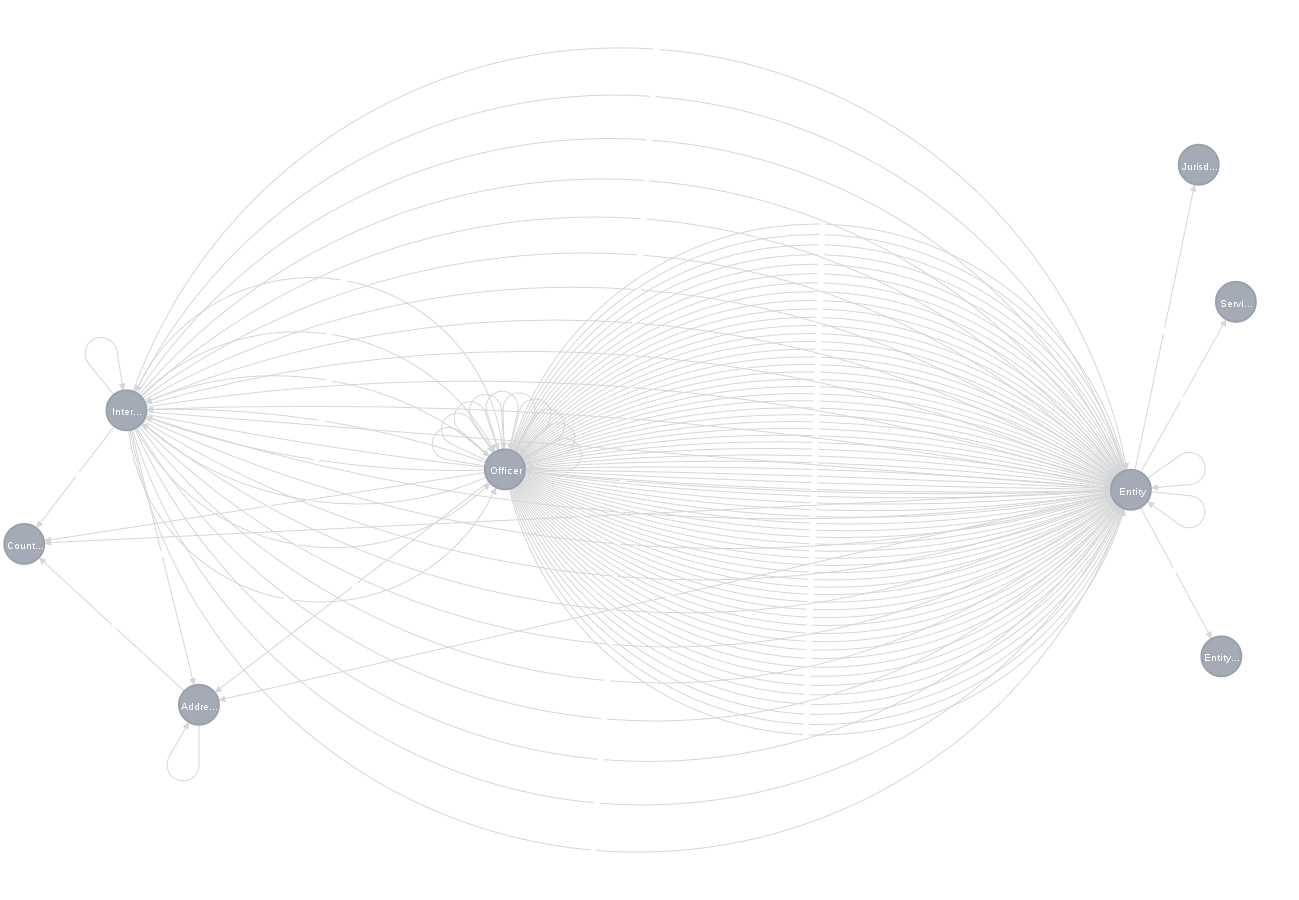
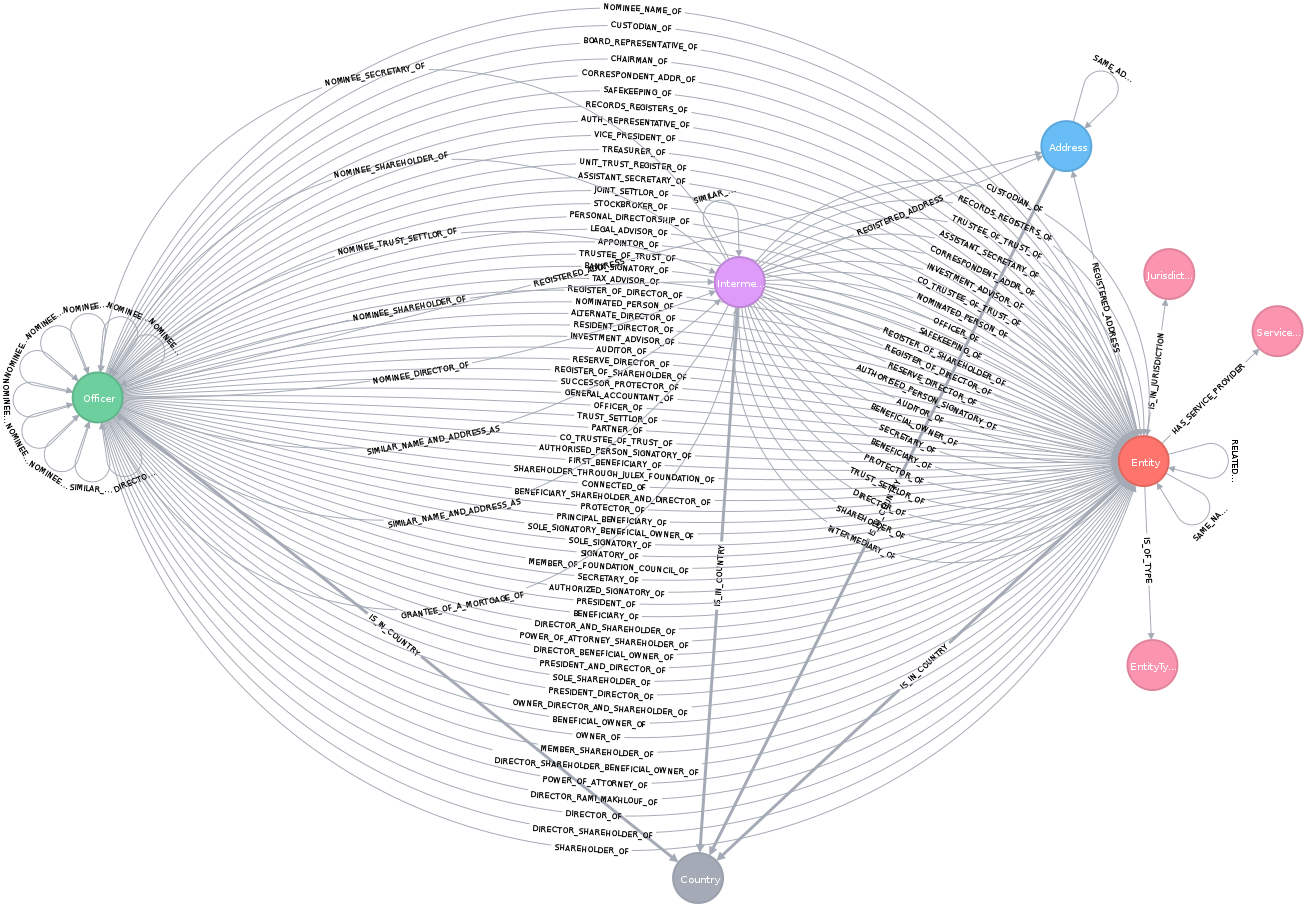
README: finish import part

diff --git a/panama_papers/README.md b/panama_papers/README.md
@@ -119,57 +119,345 @@ Now, we are all set. Let's import the data!
 First, I wanted to import the data via `LOAD CSV` as the files are all csv.
 It seems there is a problem with all_edges.csv: it isn't possible to dynamically create relationship type. A solution can be to use a `CASE` or even a `FOREACH` to force the relationship type. So, let's have a look on the different relationship in this file. Whoops, there is 121 kind of relationship.
 Well, it seems that `LOAD CSV` is not a good idea...  
-In fact, I imported all other files before seeing this problem. For information, I have to tweak the Java heap size and th queries to import in almost satisyfing 20 minutes. Believe me, I was proud of this 20 minutes. But let's move on to the other solution: `neo4j-import`  
+In fact, I imported all other files before seeing this problem. For information, I have to tweak the Java heap size and the queries (split, etc.) to perform import in almost satisyfing 20 minutes. Believe me, I was proud of these 20 minutes. But let's move on to the other solution: `neo4j-import`  
 
 What is `neo4j-import`?  
 The doc about this tool is [here](http://neo4j.com/docs/stable/import-tool.html)  
-It's a tool to import data from CSV files into a blank database. Yep, a blank database and only a blak database, it will send a nerror if you try to use it on a non-empty database. Data sources are separated between nodes and relationships, each stored in CSV files. It is possible to specify a column to use as an Id and format other columns in a particular type if you want. In case of large file, you can have separated file for headers and data, which avoid to edit a large file only to change headers.  
-It's a very quick introduction, I encourage you to read the [doc](http://neo4j.com/docs/stable/import-tool.html).  
+It's a tool to import data from CSV files into a blank database. Yep, a blank database and only a blak database, it will send an error if you try to use it on a non-empty database. Data sources are separated between nodes and relationships, each stored in CSV files. It is possible to specify a column to use as an Id and format other columns in a particular type if you want. In case of large file, you can have separated file for headers and data, which avoid to edit a large file only to change headers.  
+It's a very quick introduction, I encourage you to read the [documentation](http://neo4j.com/docs/stable/import-tool.html) which is not that long.      
 
 Knwowing how `neo4j-import` works, how can we import our data?
 There are few things we ha to keep in mind about the data:
 - There are duplicates between Officers and Intermediaries
-- all_edges.rel_type is not suitable for database as they have special characters and spaces
-Additionnally,extracting countries, jurisdictions, entity types and service providers to create nodes seems to be a good idea.
+- all_edges.rel_type is not suitable for database as they have special characters and spaces.  
+Additionnally,extracting countries, jurisdictions, entity types and service providers to create nodes seems to be a good idea.  
 Apart from the ICIJ-defined relationships (stored in all_edges.csv), we want the following meta graph:
 
 
 For data cleaning in file creating, I made a python script (my first python script, feel free to improve it and to help becoming better) which yau can call like this:  
-`python convert_data_for_import.py sourceDirectory targetDirectory`
-with *sourceDirectory* the original files directory and *targetDirectory*, the directory where new files will be saved.
+`python convert_data_for_import.py sourceDirectory targetDirectory`  
+with *sourceDirectory* the original files directory and *targetDirectory*, the directory where new files will be saved.  
+
+For convenience, the source from which data are retrieved will be noted as source_file.source_field. For example, an information stored in the field 'address' in the file Addresses.csv will be noted: Addresses.address.  
+In file where *coutnry_codes* and *country_names* fields are present, there can be more than one country per line, separated by semi colon. The script split them in single country elements. 
+
 It creates the following files:  
-Addresses_headers.csv
-Addresses.csv
-additional_relationships_country_address_headers.csv
-additional_relationships_country_address.csv
-all_edges_headers.csv
-all_edges.csv
-Countries_headers.csv
-Countries.csv
-Entities_headers.csv
-Entities.csv
-EntityTypes_headers.csv
-EntityTypes.csv
-Jurisdictions_headers.csv
-Jurisdictions.csv
-ServiceProviders_headers.csv
-ServiceProviders.csv
-additional_relationships_entity_jurisdiction_headers.csv
-additional_relationships_entity_jurisdiction.csv
-additional_relationships_entity_headers.csv
-additional_relationships_entity.csv
-additional_relationships_country_entity_headers.csv
-additional_relationships_country_entity.csv
-Intermediaries_headers.csv
-Intermediaries.csv
-additional_relationships_country_intermediary_headers.csv
-additional_relationships_country_intermediary.csv
-Officers_headers.csv
-Officers.csv
-additional_relationships_country_officer_headers.csv
-additional_relationships_country_officer.csv
-duplicateIds.csv
-  
+###### Addresses_headers.csv
+Contains the header for the **Address** nodes file
+Contains only one line:  
+`uid:ID,description`  
+The syntax `:ID` tells the import tool that data to use data in this colum as identifiers. It will use this identifiers when it comes to create relationships
+
+###### Addresses.csv
+Contains the **Address** nodes information
+
+field | source | description
+---|---|---
+uid | Address.node_id | the node's unique identifier
+description | Address.address | the address
+
+###### additional_relationships_country_address_headers.csv
+Contains the headers for the relationships file between **Address** nodes and **Country** nodes.  
+Contains only one line:
+`:START_ID,:END_ID,:TYPE`  
+These are all keywords:
+- `:START_ID` indicates a start node identifier, here an **Address** one. The import will look after the `:ID` set before to find the correct node  
+- `:END_ID` indicates a target node identifier, here an **Country** one. The import will look after the `:ID` set before to find the correct node
+- `:TYPE` is for the type of relationship to create
+
+###### additional_relationships_country_address.csv
+Contains the relationships between **Address** nodes and **Country** ones.  
+
+field | source | description
+---|---|---
+:START_ID | Addresses.node_id | An **Address** node's unique identifier
+:END_ID | Addresses.country_codes | A country code (which acts as an identifier)
+:TYPE | - | The relationship's type. Here: *IS_IN_COUNTRY*  
+
+###### all_edges_headers.csv
+Contains the headers for the ICIJ-defined relationships.  
+Contains only one line:
+`:START_ID,:END_ID,:TYPE`  
+These are all keywords:
+- `:START_ID` indicates a start node identifier. The import will look after the `:ID` set before to find the correct node  
+- `:END_ID` indicates a target node identifier. The import will look after the `:ID` set before to find the correct node
+- `:TYPE` is for the type of relationship to create
+
+###### all_edges.csv
+Contains all the headers for the ICIJ-defined relationships.  
+These relationship are too numerous (121!) to be listed here. Eventually, you can use `CALL db.relationships()` to get all different kind of relationships. You can also see them in the browser's first tab.  
+
+field | source | description
+---|---|---
+:START_ID | Addresses.node_id | A node's unique identifier
+:END_ID | Addresses.country_codes | A node's unique identifier
+:TYPE | - | The relationship's type
+
+
+###### Countries_headers.csv
+Contains the headers for the **Country** nodes.  
+Contains only on line:  
+`code:ID,name`
+
+###### Countries.csv
+Contains the **Country** nodes information.  
+This information come from different files. 
+
+field | source | description
+---|---|---
+code | Addresses.country_codes, Entities.country_codes, Officers.country_codes, Intermediaries.country_codes | the 3 letter country code. Will be use as identifier
+name | Addresses.country_names, Entities.country_names, Officers.country_names, Intermediaries.country_names | The country name
+
+###### Entities_headers.csv
+Contains the headers for the **Entity** nodes.  
+Contains only on line:  
+`uid:ID,name,originalName,formerName,address,status,note,incorporationDate,dormancydate,inactivationDate,struckOffDate`
+
+###### Entities.csv
+Contains the **Entity** nodes information. 
+
+field | source | description
+---|---|---
+uid | Entities.node_id | The **Entity** node unique identifier
+name | Entities.name | The **Entity** name
+originalName | Entities.original_name | The **Entity** original name
+formerName | Entities.former_name | The **Entity** former name
+address | Entities.address | The **Entity** address
+status | Entities.status | The **Entity** status
+note | Entities.note | Note about the **Entity** 
+incorporationDate | Entities.incorporation_date | The **Entity** incorporation date
+dormancydate | Entities.dorm_date | The **Entity** dormancy date
+inactivationDate | Entities.inactivation_date | The **Entity** inactivation date
+struckOffDate | Entities.struck_off_date | The **Entity** struck off date
+
+###### EntityTypes_headers.csv
+Contains the headers for the **EntityType** nodes.  
+Contains only on line:  
+`uid:ID,name`
+
+###### EntityTypes.csv
+Contains the **EntityType** nodes information. 
+
+field | source | description
+---|---|---
+uid | - | The **EntityType** node unique identifier. Computed from each word first letter and type length
+name | Entities.company_type | The **EntityType** description
+
+###### Jurisdictions_headers.csv
+Contains the headers for the **Jurisdiction** nodes.  
+Contains only on line:  
+`code:ID,name`
+
+###### Jurisdictions.csv
+Contains the **Jurisdiction** nodes information. 
+Not to be confused with countries!  
+
+field | source | description
+---|---|---
+uid | Entities.juridiction + Entities.jurisdiction length | The **Jurisdiction** node unique identifier.
+name | Entities.jurisdiction | The **Jurisdiction** description
+
+###### ServiceProviders_headers.csv
+Contains the headers for the **ServiceProvider** nodes.  
+Contains only on line:  
+`uid:ID,name`
+
+###### ServiceProviders.csv
+Contains the **ServiceProvider** nodes information. 
+
+field | source | description
+---|---|---
+uid | - | The **ServiceProvider** node unique identifier. Computed from each word first letter
+name | Entities.service_provider | The **ServiceProvider** name 
+
+###### additional_relationships_entity_headers.csv
+Contains the headers for the relationships file between **Entity** nodes and **Jurisdiction** / **EntityType** / **ServiceProvider** nodes.  
+Contains only one line:
+`:START_ID,:END_ID,:TYPE`  
+These are all keywords:
+- `:START_ID` indicates a start node identifier, here an **Entity** one.  
+- `:END_ID` indicates a target node identifier, here an **Jurisdiction** or **EntityType** or **ServiceProvider** one. 
+- `:TYPE` is for the type of relationship to create
+
+###### additional_relationships_entity.csv
+field | source | description
+---|---|---
+:START_ID | Entities.node_id | An **Entity** node's unique identifier
+:END_ID | Entities.jurisdiction | A **Jurisdiction** or **EntityType** or **ServiceProvider** node's unique identifier
+:TYPE | - | The relationship's type. Here: *IS_IN_JURISDICTION* or *IS_OF_TYPE* or *HAS_SERVICE_PROVIDER* 
+
+###### additional_relationships_country_entity_headers.csv
+Contains the headers for the relationships file between **Entity** nodes and **Country** nodes.  
+Contains only one line:
+`:START_ID,:END_ID,:TYPE`  
+These are all keywords:
+- `:START_ID` indicates a start node identifier, here an **Entity** one. 
+- `:END_ID` indicates a target node identifier, here an **Country** one. 
+- `:TYPE` is for the type of relationship to create
+
+###### additional_relationships_country_entity.csv
+Contains the relationships between **Entity** nodes and **Country** ones.  
+
+field | source | description
+---|---|---
+:START_ID | Addresses.node_id | An **Entity** node's unique identifier
+:END_ID | Addresses.country_codes | A **Country** node's unique identifier
+:TYPE | - | The relationship's type. Here: *IS_IN_COUNTRY*
+
+###### Intermediaries_headers.csv
+Contains the headers for the **Intermediary** nodes.  
+Contains only on line:  
+`uid:ID,name,address,status`
+
+###### Intermediaries.csv
+Contains the **Intermediary** nodes information. 
+
+field | source | description
+---|---|---
+uid | Intermediaries.node_id | The **Intermediary** node's unique identifier
+name | Intermediaries.name | The **Intermediary** name
+address | Intermediaries.address | The **Intermediary** address
+status | Intermediaries.status | The **Intermediary** status
+
+###### additional_relationships_country_intermediary_headers.csv
+Contains the headers for the relationships file between **Intermediary** nodes and **Country** nodes.  
+Contains only one line:
+`:START_ID,:END_ID,:TYPE`  
+These are all keywords:
+- `:START_ID` indicates a start node identifier, here an **Intermediary** one. 
+- `:END_ID` indicates a target node identifier, here an **Country** one. 
+- `:TYPE` is for the type of relationship to create
+
+###### additional_relationships_country_intermediary.csv
+Contains the relationships between **Intermediary** nodes and **Country** ones. 
+
+field | source | description
+---|---|---
+:START_ID | Addresses.node_id | An **Entity** node's unique identifier
+:END_ID | Addresses.country_codes | A **Country** node's unique identifier
+:TYPE | - | The relationship's type. Here: *IS_IN_COUNTRY*
+
+###### Officers_headers.csv
+Contains the headers for the **Officer** nodes.  
+Contains only on line:  
+`uid:ID,name`
+
+###### Officers.csv
+Contains the **Officer** nodes information. 
+
+field | source | description
+---|---|---
+uid | Officers.node_id | The **Officer** node's unique identifier
+name | Officers.name | The **Officer** name
+
+###### additional_relationships_country_officer_headers.csv
+Contains the headers for the relationships file between **Officer** nodes and **Country** nodes.  
+Contains only one line:
+`:START_ID,:END_ID,:TYPE`  
+These are all keywords:
+- `:START_ID` indicates a start node identifier, here an **Officer** one. 
+- `:END_ID` indicates a target node identifier, here an **Country** one. 
+- `:TYPE` is for the type of relationship to create
+
+###### additional_relationships_country_officer.csv
+Contains the relationships between **Officer** nodes and **Country** ones. 
+
+field | source | description
+---|---|---
+:START_ID | Addresses.node_id | An **Officer** node's unique identifier
+:END_ID | Addresses.country_codes | A **Country** node's unique identifier
+:TYPE | - | The relationship's type. Here: *IS_IN_COUNTRY*
+
+###### duplicateIds.csv
+This file contains the duplicates between **Intermediary** and **Officer** nodes. If there is duplicated identifiers, the import tool can't create relationships because it can't know which one of the ndoes is the correct one to use for the purpose.  
+This file structure is simple; jsut one header (`id`) and all identifiers. It will be used after the import
+
+NOTA: It's possible to use less files by grouping relationships and nodes. But multiple files allow me to perform conversion tests and checks easily.
+
+## Import now!
+Now that we have all the required files, we can try to import the data in our database.  
+Remember, `neo4j-import` only likes empty database, then we have to perform a:  
+`rm -rf $PATH_TO_NEO4J/data/databases/graphdb/*`  
+If you're running a Neo4j verion below 3, this command won't work. Check your graphdb to make it work, usually `rm -rf $PATH_TO_NEO4J/data/graphdb/*`  
+
+And now, the import command:  
+```shell
+$PATH_TO_NEO4J/bin/neo4j-import --into $PATH_TO_NEO4J/data/databases/graph.db/ --multiline-fields=true \
+--nodes:Address "/path/to/your/clean/data/Addresses_headers.csv,/path/to/your/clean/data/Addresses.csv" \
+--nodes:Country "/path/to/your/clean/data/Countries_headers.csv,/path/to/your/clean/data/Countries.csv" \
+--nodes:Entity "/path/to/your/clean/data/Entities_headers.csv,/path/to/your/clean/data/Entities.csv" \
+--nodes:EntityType "/path/to/your/clean/data/EntityTypes_headers.csv,/path/to/your/clean/data/EntityTypes.csv" \
+--nodes:Intermediary "/path/to/your/clean/data/Intermediaries_headers.csv,/path/to/your/clean/data/Intermediaries.csv" \
+--nodes:Jurisdiction "/path/to/your/clean/data/Jurisdictions_headers.csv,/path/to/your/clean/data/Jurisdictions.csv" \
+--nodes:Officer "/path/to/your/clean/data/Officers_headers.csv,/path/to/your/clean/data/Officers.csv" \
+--nodes:ServiceProvider "/path/to/your/clean/data/ServiceProviders_headers.csv,/path/to/your/clean/data/ServiceProviders.csv" \
+--relationships "/path/to/your/clean/data/additional_relationships_country_address_headers.csv,/path/to/your/clean/data/additional_relationships_country_address.csv" \
+--relationships "/path/to/your/clean/data/additional_relationships_country_entity_headers.csv,/path/to/your/clean/data/additional_relationships_country_entity.csv" \
+--relationships "/path/to/your/clean/data/additional_relationships_country_intermediary_headers.csv,/path/to/your/clean/data/additional_relationships_country_intermediary.csv" \
+--relationships "/path/to/your/clean/data/additional_relationships_country_officer_headers.csv,/path/to/your/clean/data/additional_relationships_country_officer.csv" \
+--relationships "/path/to/your/clean/data/additional_relationships_entity_headers.csv,/path/to/your/clean/data/additional_relationships_entity.csv" \
+--relationships "/path/to/your/clean/data/all_edges_headers.csv,/path/to/your/clean/data/all_edges.csv"
+```
+
+That's a pretty big command, let's cut it into pieces!  
+`$PATH_TO_NEO4J/bin/neo4j-import`  
+calls the import tool  
+
+`--into $PATH_TO_NEO4J/data/databases/graph.db/`  
+tells the import tool where to import data  
+
+`--multiline-fields=true`  
+allows multiline value in fields  
+
+`--nodes:Address "/path/to/your/clean/data/Addresses_headers.csv,/path/to/your/clean/data/Addresses.csv"`  
+import data from */path/to/your/clean/data/Addresses.csv* using the headers stored in */path/to/your/clean/data/Addresses_headers.csv* and creates nodes of type **Address** with these data.  
+The syntax is  
+`--nodes:node_type "data_headers_file,datafile"`  
+Beware: don't put sapces after the comma or the command will fail!
+All other nodes types are imported the same way.  
+
+For the relationship, the syntax is  
+`--relationships "data_headers_file,datafile"`  
+For example: `--relationships "/path/to/your/clean/data/all_edges_headers.csv,/path/to/your/clean/data/all_edges.csv"`
+
+
+When you execute this command, it fails and you have this error:    
 ```
 original error: At /home/dominique.vassard/Dev/perso/panama_papers/clean_data/Addresses.csv:124815 -  there's a field starting with a quote and whereas it ends that quote there seems to be characters in that field after that ending quote. That isn't supported. This is what I read: '11F.-2, No. 102, GUANGFU S. RD., XINYI DISTRICT, Taipei City 110, Taiwan, R.O.C "
 ```
+
+Don't panic, it's just because this line ends with `\"` wich espaces the `"` and field is not delimited. Open the file, remove the `\` and execute thje command again.  
+
+That's it! Everything was imported in our database.  
+Remember the time required for my not-complete-LOAD-CSV import? About 20 minutes.  
+How long was it for you? Far less I presume and your answers is in seconds. Nice, isn't it?  especially for more than 800,000 nodes and more than 3,000,000 relationships.
+
+But our job isn't finished yet. We have to managed our duplicates. Some **Officer** nodes are also **Intermediary** ones, we stored wich one are concerned in a file. Let's import it:  
+- First copy your *duplicateIds.csv* file into *$PATH_TO_NEO4J/import/*
+- open your neo4-shell or your brower at localhost:7474
+- Launch the query
+```cypher
+USING PERIODIC COMMIT 500
+LOAD CSV WITH HEADERS FROM
+'file:///panama_papers/duplicateIds.csv' AS line
+WITH line
+MATCH (n:Intermediary {uid: line.id})
+SET n:Officer;
+```
+This query only get each **Intermediary** node with an identifier found in the file and to it the label **Officer**. These particular node will the be both **Intermediary** and **Officer** (you can query them with `:Intermediary:Officer`).  
+
+Now our database has all the data, but to query it efficiently, it laks one thing: indexes. Open your shell or browser and let's add them. Remember that the browser accepts only one query at a time.
+```cypher
+CREATE INDEX ON :Country(code);
+CREATE INDEX ON :Officer(name);
+CREATE INDEX ON :Jurisdiction(code);
+CREATE INDEX ON :EntityType(name);
+CREATE INDEX ON :ServiceProvider(name);
+CREATE INDEX ON :Entity(name);
+CREATE INDEX ON :Address(description);
+CREATE INDEX ON :Intermediary(name);
+```
+
+
+Now we're all good. We can launch the satisfying `CALL apoc.meta.graph()`, enjoy our metagraph:  
+![Schema](https://github.com/dominique-vassard/data-play/blob/master/panama_papers/images/meta_graph.png)
